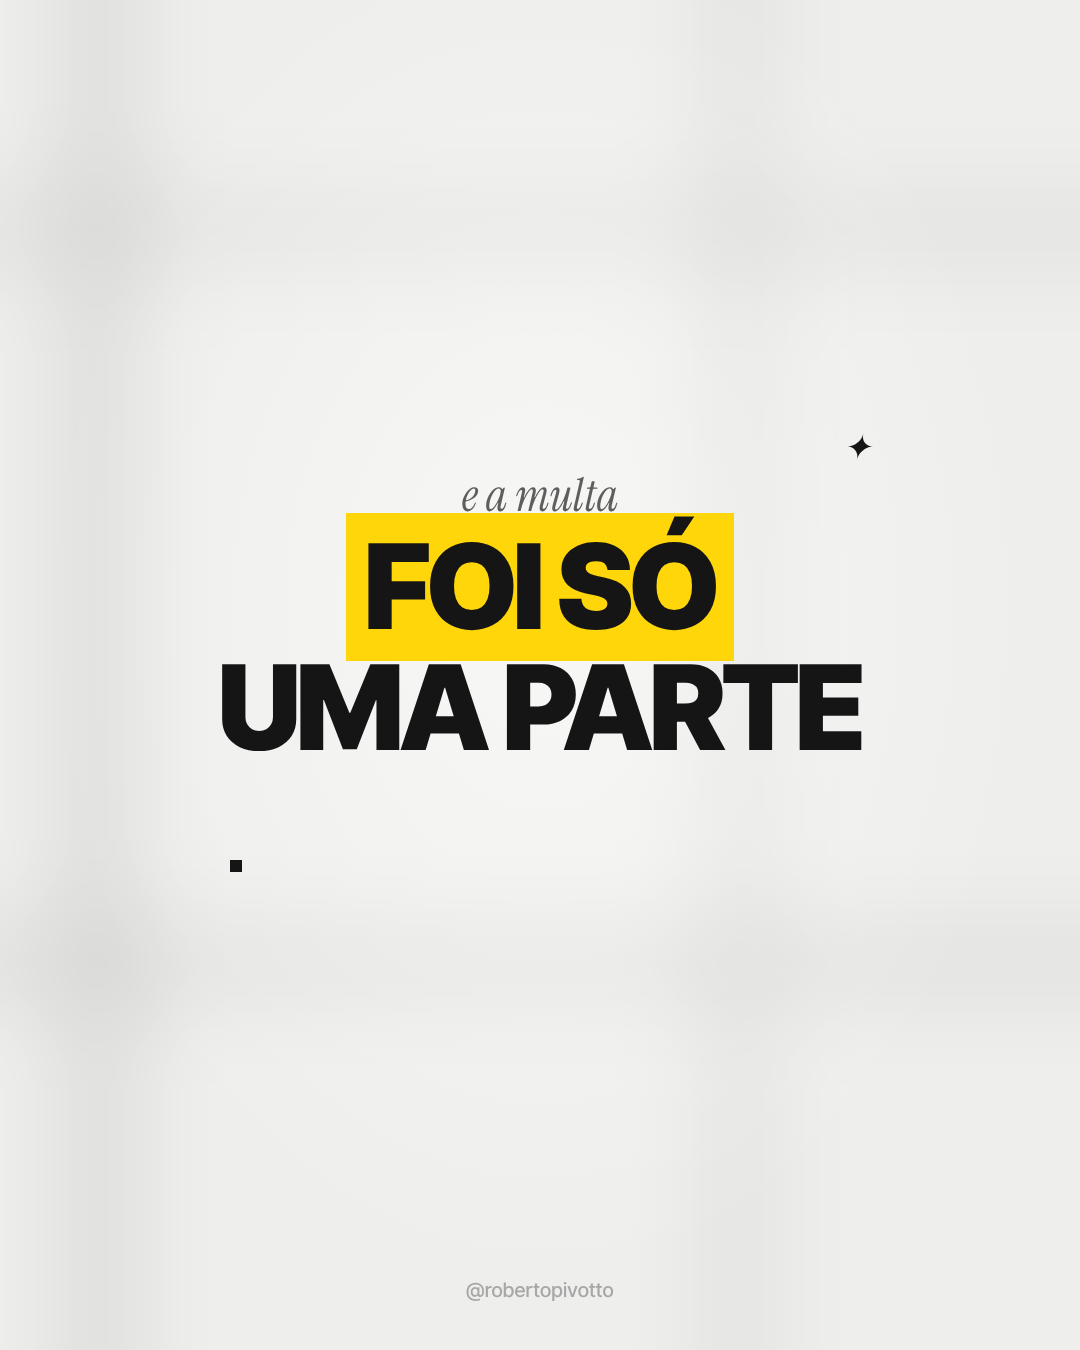
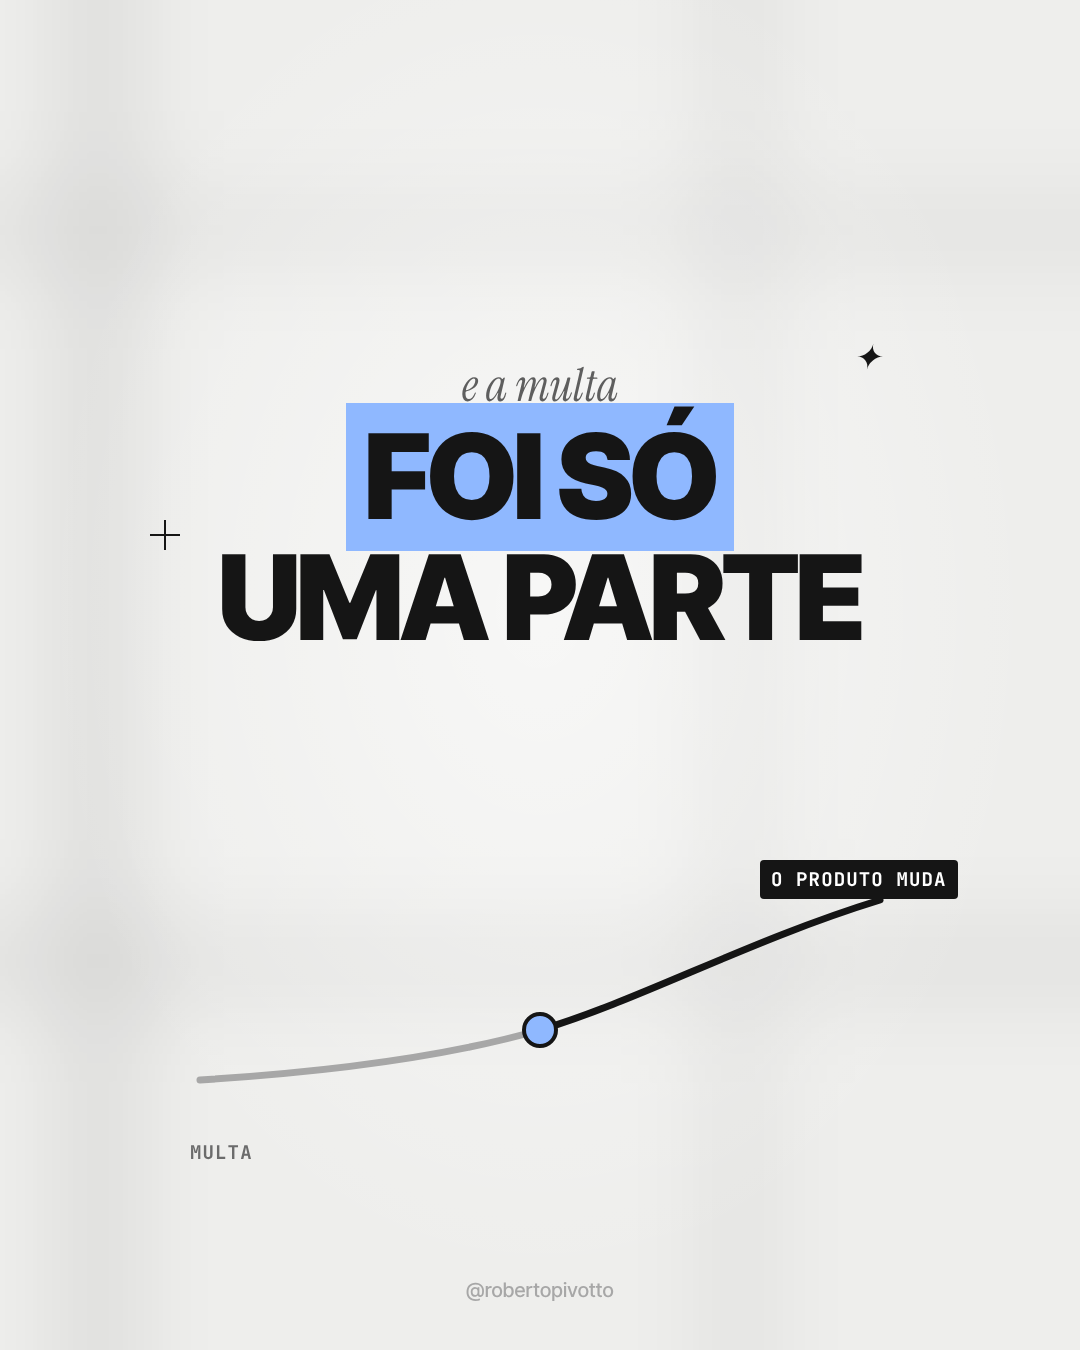
roberto-pivotto: modelo referência em azul, com linhas-guia e figuras
Claude-Session: https://claude.ai/code/session_01Su23FwMFMHv6uGmYoix1fv

diff --git a/roberto-pivotto/posts/modelo-referencia/artes.html b/roberto-pivotto/posts/modelo-referencia/artes.html
@@ -11,7 +11,7 @@
    Componentes: .lead (linha pequena em serifa itálica), .big (título pesado em caixa alta),
    .mk (marca-texto), .card, .chip, .tag (etiqueta com miras), .input (caixa de prompt/comentário),
    .lista, .riscado, .num, .estrela. Troque --acento para mudar a cor do tema. */
-:root{--fundo:#EEEEEC;--branco:#FFFFFF;--tinta:#151515;--cinza:#6B6B6B;--cinza2:#A7A7A7;--linha:#E2E2DF;--acento:#FFD60A;
+:root{--fundo:#EEEEEC;--branco:#FFFFFF;--tinta:#151515;--cinza:#6B6B6B;--cinza2:#A7A7A7;--linha:#E2E2DF;--acento:#8FB8FF;--azul:#2B57A6;
 --serif:'Instrument Serif',Georgia,serif;--sans:'Inter Tight',system-ui,sans-serif;--mono:'JetBrains Mono',monospace}
 *{box-sizing:border-box;margin:0}
 body{background:#888;padding:40px;display:flex;flex-wrap:wrap;gap:40px}
@@ -64,7 +64,7 @@ body{background:#888;padding:40px;display:flex;flex-wrap:wrap;gap:40px}
 .risc.x{color:var(--cinza)}
 .risc.ok span{color:var(--tinta);background:var(--acento);padding:4px 10px;border-radius:4px}
 .input{width:100%;background:var(--branco);border-radius:18px;box-shadow:0 24px 60px rgba(0,0,0,.10);padding:30px 34px;display:flex;align-items:center;gap:22px;text-align:left;font-size:34px;font-weight:500}
-.input .ic{flex:0 0 auto;width:66px;height:66px;border-radius:14px;background:#FFF5C2;display:flex;align-items:center;justify-content:center;font-size:34px}
+.input .ic{flex:0 0 auto;width:66px;height:66px;border-radius:14px;background:#E3EDFF;color:var(--azul);display:flex;align-items:center;justify-content:center;font-size:34px}
 .cur{display:inline-block;width:3px;height:40px;background:var(--tinta);vertical-align:-8px;margin-left:2px}
 .input .env{margin-left:auto;flex:0 0 auto;width:46px;height:46px;border-radius:50%;background:#D9D9D6;color:#fff;display:flex;align-items:center;justify-content:center;font-size:24px}
 .s.v .card{padding:52px 56px} .s.v .card .meta{font-size:28px} .s.v .card h3{font-size:62px} .s.v .card p{font-size:40px} .s.v .chip{font-size:28px;padding:12px 18px}
@@ -73,7 +73,7 @@ body{background:#888;padding:40px;display:flex;flex-wrap:wrap;gap:40px}
 .coment b{width:0;height:0;border-left:34px solid var(--tinta);border-top:22px solid transparent;border-bottom:22px solid transparent}
 .estrela{position:absolute;width:34px;height:34px;z-index:2}
 .estrela::before{content:"✦";position:absolute;inset:0;font-size:34px;line-height:34px;color:var(--tinta)}
-.estrela.a::before{color:var(--acento);text-shadow:0 0 0 #000}
+.estrela.a::before{color:var(--azul)}
 .mira{position:absolute;width:12px;height:12px;background:var(--tinta);z-index:2}
 .logos{display:flex;gap:22px;justify-content:center}
 .logo{width:120px;height:120px;border-radius:22px;background:var(--branco);box-shadow:0 14px 30px rgba(0,0,0,.08);display:flex;align-items:center;justify-content:center;font-weight:900;font-size:34px;letter-spacing:-.02em}
@@ -81,112 +81,178 @@ body{background:#888;padding:40px;display:flex;flex-wrap:wrap;gap:40px}
 .selo{width:520px;height:340px;border-radius:24px;background:var(--branco);box-shadow:0 30px 70px rgba(0,0,0,.12);display:flex;flex-direction:column;align-items:center;justify-content:center;transform:rotate(-3deg)}
 .selo .num{font-size:130px}
 .selo .mono{margin-top:14px}
+/* linhas e figuras das referências */
+svg.ligas{position:absolute;inset:0;width:100%;height:100%;z-index:3;pointer-events:none;overflow:visible}
+.rot{position:absolute;z-index:4;font-family:var(--mono);font-size:19px;font-weight:700;letter-spacing:.06em;text-transform:uppercase;color:var(--tinta)}
+.rot.ch{background:var(--tinta);color:#fff;padding:7px 11px;border-radius:4px}
+.rot.az{background:var(--acento);color:var(--tinta);padding:7px 11px;border-radius:4px}
+.quad{position:absolute;z-index:2;width:40px;height:40px;background:var(--acento)}
+.quad.p{width:14px;height:14px;background:var(--tinta)}
+.cruz{position:absolute;z-index:2;width:30px;height:30px}
+.cruz::before,.cruz::after{content:"";position:absolute;background:var(--tinta)}
+.cruz::before{left:14px;top:0;width:2px;height:30px}.cruz::after{top:14px;left:0;height:2px;width:30px}
+.slider{width:100%;text-align:left}
+.slider .t{display:flex;justify-content:space-between;align-items:baseline;font-size:26px;color:var(--cinza)}
+.slider .t b{font-weight:900;font-size:64px;color:var(--tinta);letter-spacing:-.03em}
+.slider .trilho{position:relative;height:8px;border-radius:4px;background:var(--tinta);margin:30px 0 16px}
+.slider .trilho i{position:absolute;right:-18px;top:-16px;width:40px;height:40px;border-radius:50%;background:var(--acento);border:4px solid var(--tinta)}
+.slider .esc{display:flex;justify-content:space-between;font-family:var(--mono);font-size:18px;color:var(--cinza)}
+.icones{display:flex;gap:26px;justify-content:center;position:relative}
+.icones .ico{width:110px;height:110px;border-radius:22px;background:var(--branco);box-shadow:0 14px 30px rgba(0,0,0,.08);display:flex;align-items:center;justify-content:center}
+.icones .ico svg{width:58px;height:58px}
+.xis{position:absolute;left:-20px;top:-14px;width:calc(100% + 40px);height:calc(100% + 28px);z-index:2}
+.tempo{width:100%;display:flex;align-items:center;gap:0;font-family:var(--mono);font-size:19px;font-weight:700;color:var(--cinza);text-transform:uppercase;letter-spacing:.05em}
+.tempo .seg{flex:1;height:3px;background:var(--tinta);margin:0 14px;position:relative}
+.tempo .seg.tr{background:repeating-linear-gradient(90deg,var(--tinta) 0 10px,transparent 10px 18px)}
+.tempo .pt{width:20px;height:20px;border-radius:50%;background:var(--tinta)} .tempo .pt.az{background:var(--acento);border:3px solid var(--tinta);width:26px;height:26px}
+.tempo .lb{display:flex;flex-direction:column;align-items:center;gap:10px}
+.s.v .rot{font-size:28px} .s.v .rot.ch,.s.v .rot.az{padding:10px 16px}
+.avatar{display:flex;align-items:center;gap:16px;background:var(--branco);border-radius:14px;box-shadow:0 10px 26px rgba(0,0,0,.08);padding:14px 22px 14px 14px;text-align:left}
+.avatar .f{width:56px;height:56px;border-radius:50%;background:var(--tinta);color:#fff;font-weight:800;font-size:22px;display:flex;align-items:center;justify-content:center}
+.avatar b{display:block;font-size:22px} .avatar span{font-size:18px;color:var(--cinza)}
 </style>
 </head>
 <body>
 
-<!-- 1 · capa: lead + título com marca-texto + objeto central com etiqueta -->
-<section class="s" data-out="carrossel-01">
+<!-- 1 · capa: objeto central, linha-guia até a etiqueta com miras, figuras soltas -->
+<section class="s" data-out="carrossel-01" data-ligas="selo@b>tag1@t:ponto">
   <div class="topo"><p class="lead">a multa da LGPD tem teto de</p><p class="big"><span class="mk">R$ 50 milhões</span></p></div>
-  <div class="area" style="top:520px">
-    <div class="selo"><p class="num">153,7<small>mi</small></p><p class="mono">o que o TikTok levou · ANPD</p></div>
-    <span class="tag" style="margin-top:40px">TikTok · ANPD</span>
+  <div class="area" style="top:500px">
+    <div class="selo" id="selo"><p class="num">153,7<small>mi</small></p><p class="mono">o que o TikTok levou</p></div>
+    <span class="tag" id="tag1" style="margin-top:110px">TikTok · ANPD</span>
   </div>
-  <i class="estrela" style="left:830px;top:520px"></i><i class="mira" style="left:200px;top:880px"></i><i class="estrela a" style="left:190px;top:600px"></i>
+  <span class="rot az" id="r2" style="left:790px;top:560px;font-size:24px">3× o teto</span>
+  <i class="estrela" style="left:850px;top:470px"></i><i class="estrela a" style="left:150px;top:860px"></i>
+  <i class="quad" style="left:860px;top:640px"></i><i class="quad p" style="left:190px;top:1080px"></i><i class="cruz" style="left:880px;top:1120px"></i>
   <div class="pe">@robertopivotto</div>
 </section>
 
-<!-- 2 · notícia em cartão, com legenda em itálico -->
-<section class="s" data-out="carrossel-02">
+<!-- 2 · notícia em cartão, anotação pontilhada para o rótulo -->
+<section class="s" data-out="carrossel-02" data-ligas="hl2@r>an2@l:tracejada">
   <div class="topo"><p class="lead">em agosto saiu no</p><p class="big"><span class="mk">Diário Oficial</span></p></div>
-  <div class="area">
-    <div class="card"><p class="meta">notícia · 25 ago 2026</p><h3><span class="mk">ANPD multa a dona do TikTok em R$ 153,7 milhões</span></h3><p>É a maior sanção da história da autoridade.</p></div>
+  <div class="area" style="right:250px">
+    <div class="card"><p class="meta">notícia · 25 ago 2026</p><h3><span class="mk" id="hl2">ANPD multa a dona do TikTok em R$ 153,7 milhões</span></h3><p>Dados de crianças e adolescentes tratados sem base legal.</p></div>
     <p class="mono">fonte: Tecnoblog · diário oficial da união</p>
-    <p class="legenda">"dados de crianças e adolescentes tratados sem base legal"</p>
   </div>
+  <span class="rot ch" id="an2" style="left:870px;top:560px;width:150px;line-height:1.35">maior multa da ANPD</span>
+  <div class="area" style="top:1010px"><div class="tempo"><div class="lb"><span class="pt"></span>2021</div><div class="seg tr"></div><div class="lb"><span class="pt"></span>fiscalização</div><div class="seg"></div><div class="lb"><span class="pt az"></span>ago/2026</div></div></div>
+  <i class="estrela" style="left:120px;top:420px"></i><i class="cruz" style="left:930px;top:880px"></i>
   <div class="pe">@robertopivotto</div>
 </section>
 
-<!-- 3 · número grande + chips -->
+<!-- 3 · número + régua no máximo -->
 <section class="s" data-out="carrossel-03">
   <div class="topo"><p class="lead">o teto da LGPD vale</p><p class="big"><span class="mk">por infração</span></p></div>
-  <div class="area" style="top:520px">
+  <div class="area" style="top:480px">
     <div class="card c"><p class="num">R$ 50<small>mi</small></p><p>para cada infração</p></div>
-    <div class="chips"><span class="chip">até 2% do faturamento</span><span class="chip">no Brasil</span><span class="chip a">por infração</span></div>
+    <div class="card slider"><div class="t"><span>multa por infração</span><b>máx.</b></div><div class="trilho"><i></i></div><div class="esc"><span>R$ 0</span><span>2% do faturamento</span><span>R$ 50 mi</span></div></div>
     <p class="mono">LGPD · art. 52, II</p>
   </div>
+  <i class="quad" style="left:900px;top:470px"></i><i class="estrela a" style="left:120px;top:1100px"></i>
   <div class="pe">@robertopivotto</div>
 </section>
 
-<!-- 4 · cartão com barra preta e lista numerada -->
-<section class="s" data-out="carrossel-04">
+<!-- 4 · lista no cartão, colchete e linha até o total -->
+<section class="s" data-out="carrossel-04" data-ligas="it1@r>tot@l;it2@r>tot@l;it3@r>tot@l">
   <div class="topo"><p class="lead">a mesma prática virou</p><p class="big"><span class="mk">5 infrações</span></p></div>
-  <div class="area">
+  <div class="area" style="right:330px;left:90px">
     <div class="card lista"><div class="barra">decisão da ANPD</div>
-      <div class="it"><span class="q">01</span>sem base legal</div>
-      <div class="it"><span class="q">02</span>sem prevenção</div>
-      <div class="it"><span class="q">03</span>sem prova de conformidade</div>
-      <div class="it off"><span class="q">+2</span><div>outras duas<small>não detalhadas na matéria</small></div></div>
+      <div class="it" id="it1"><span class="q">01</span>sem base legal</div>
+      <div class="it" id="it2"><span class="q">02</span>sem prevenção</div>
+      <div class="it" id="it3"><span class="q">03</span>sem prova de conformidade</div>
+      <div class="it off"><span class="q">+2</span><div>outras duas<small>não detalhadas</small></div></div>
     </div>
-    <p class="legenda">cada uma com o próprio teto de R$ 50 milhões</p>
   </div>
+  <span class="tag" id="tot" style="position:absolute;left:830px;top:690px;font-size:34px">× 5</span>
+  <p class="legenda" style="position:absolute;left:0;right:0;top:1150px">cada uma com o próprio teto de R$ 50 milhões</p>
+  <i class="estrela" style="left:930px;top:520px"></i><i class="quad p" style="left:960px;top:980px"></i>
   <div class="pe">@robertopivotto</div>
 </section>
 
-<!-- 5 · respiro: só o título -->
+<!-- 5 · respiro com a curva que pivota -->
 <section class="s" data-out="carrossel-05">
-  <div class="topo" style="top:470px"><p class="lead">e a multa</p><p class="big g"><span class="mk">foi só</span></p><p class="big g">uma parte</p></div>
-  <i class="estrela" style="left:840px;top:430px"></i><i class="mira" style="left:230px;top:860px"></i>
+  <div class="topo" style="top:360px"><p class="lead">e a multa</p><p class="big g"><span class="mk">foi só</span></p><p class="big g">uma parte</p></div>
+  <svg style="position:absolute;left:190px;top:880px;width:700px;height:240px;z-index:2" viewBox="0 0 700 240"><path d="M10 200 C 170 190, 280 170, 350 150" stroke="#A7A7A7" stroke-width="7" fill="none" stroke-linecap="round"/><path d="M350 150 C 450 120, 560 60, 690 20" stroke="#151515" stroke-width="7" fill="none" stroke-linecap="round"/><circle cx="350" cy="150" r="16" fill="#8FB8FF" stroke="#151515" stroke-width="4"/></svg>
+  <span class="rot" style="left:190px;top:1140px;color:#6B6B6B">multa</span><span class="rot ch" style="left:760px;top:860px">o produto muda</span>
+  <i class="estrela" style="left:850px;top:340px"></i><i class="cruz" style="left:150px;top:520px"></i>
   <div class="pe">@robertopivotto</div>
 </section>
 
-<!-- 6 · itens riscados e mantidos -->
+<!-- 6 · ícones riscados + itens riscados e mantidos -->
 <section class="s" data-out="carrossel-06">
   <div class="topo"><p class="lead">a ANPD também mandou</p><p class="big"><span class="mk">mudar o produto</span></p></div>
-  <div class="area" style="gap:20px">
-    <div class="risc x">dados coletados sem base legal<span>apagar</span></div>
+  <div class="area" style="gap:18px;top:440px">
+    <div class="icones"><span class="ico"><svg viewBox="0 0 24 24" fill="none" stroke="#151515" stroke-width="2"><ellipse cx="12" cy="6" rx="7" ry="3"/><path d="M5 6v12c0 1.7 3.1 3 7 3s7-1.3 7-3V6M5 12c0 1.7 3.1 3 7 3s7-1.3 7-3"/></svg></span><span class="ico"><svg viewBox="0 0 24 24" fill="none" stroke="#151515" stroke-width="2"><rect x="3" y="5" width="18" height="14" rx="2"/><path d="M7 15l2.5-6 2.5 6M7.8 13h3.4M15 9v6h1.2a2.8 3 0 000-6z"/></svg></span><svg class="xis" viewBox="0 0 100 100" preserveAspectRatio="none"><path d="M4 8 L96 92 M96 8 L4 92" stroke="#2B57A6" stroke-width="3.5" stroke-linecap="round"/></svg></div>
+    <div class="risc x" style="margin-top:20px">dados coletados sem base legal<span>apagar</span></div>
     <div class="risc x">anúncios para quem usa sem cadastro<span>suspender</span></div>
     <div class="risc ok">menores de 16 anos<span>privacidade restrita</span></div>
     <div class="risc ok">supervisão dos pais<span>reforçada</span></div>
-    <p class="mono" style="margin-top:14px">fonte: Tecnoblog · 25/08/2026</p>
   </div>
+  <i class="estrela a" style="left:880px;top:470px"></i><i class="quad p" style="left:170px;top:520px"></i>
   <div class="pe">@robertopivotto</div>
 </section>
 
-<!-- 7 · fecho: pergunta + caixa de comentário -->
-<section class="s" data-out="carrossel-07">
-  <div class="topo" style="top:300px"><p class="lead">na sua empresa,</p><p class="big p">qual prática com dados</p><p class="big p"><span class="mk">toca mais de uma regra?</span></p></div>
-  <div class="area" style="top:760px;left:150px;right:150px">
+<!-- 7 · fecho: pergunta, caixa de comentário e cartão do perfil -->
+<section class="s" data-out="carrossel-07" data-ligas="coment@b>av@t:ponto">
+  <div class="topo" style="top:250px"><p class="lead">na sua empresa,</p><p class="big p">qual prática com dados</p><p class="big p"><span class="mk">toca mais de uma regra?</span></p></div>
+  <div class="area" style="top:690px;left:150px;right:150px">
     <p class="lead" style="font-size:40px">comenta</p>
-    <div class="coment"><span>a sua prática</span><b></b></div>
-    <p class="mono" style="margin-top:20px">desde fevereiro, a ANPD é autarquia e fiscaliza o ECA Digital</p>
+    <div class="coment" id="coment"><span>a sua prática</span><b></b></div>
+    <div class="avatar" id="av" style="margin-top:90px"><span class="f">RP</span><div><b>robertopivotto</b><span>advogado · negócios e tecnologia</span></div></div>
   </div>
-  <i class="estrela a" style="left:900px;top:1120px"></i>
+  <i class="estrela a" style="left:900px;top:1120px"></i><i class="estrela" style="left:140px;top:640px"></i><i class="cruz" style="left:150px;top:1130px"></i>
   <div class="pe">@robertopivotto</div>
 </section>
 
-<!-- Capa do Reels de quarta -->
-<section class="s v" data-out="reels-quarta-capa">
+<!-- Capa do Reels de quarta: cartão com linhas para os rótulos riscados -->
+<section class="s v" data-out="reels-quarta-capa" data-ligas="c4@l>st@r:tracejada;c4@r>sf@l:tracejada">
   <div class="topo"><p class="lead">a IA erra, e</p><p class="big"><span class="mk">quem paga</span></p><p class="lead">é quem assina</p></div>
-  <div class="area" style="top:880px">
-    <div class="card"><p class="meta">TJMG · 13 ago 2026</p><h3>Advogado cita decisões do STJ e do STF <span class="mk">que não existem</span></h3><p>Multa de 2%, ofício à OAB e cópia ao Ministério Público.</p></div>
+  <div class="area" style="top:860px;left:210px;right:210px">
+    <div class="card" id="c4"><p class="meta">TJMG · 13 ago 2026</p><h3>Decisões citadas <span class="mk">que não existem</span></h3><p>Multa de 2%, ofício à OAB e cópia ao MP.</p></div>
     <div class="chips"><span class="chip">jurisprudência inventada</span><span class="chip a">quem assina responde</span></div>
   </div>
-  <i class="estrela" style="left:860px;top:700px"></i>
+  <span class="rot ch" id="st" style="left:40px;top:1330px">STJ ✕</span><span class="rot ch" id="sf" style="left:920px;top:1330px">STF ✕</span>
+  <i class="estrela" style="left:880px;top:700px"></i><i class="quad" style="left:150px;top:760px"></i><i class="cruz" style="left:880px;top:1520px"></i>
   <div class="pe">@robertopivotto</div>
 </section>
 
-<!-- Capa do Reels de sexta -->
-<section class="s v" data-out="reels-sexta-capa">
+<!-- Capa do Reels de sexta: caixa de chat, seta tracejada até o fornecedor -->
+<section class="s v" data-out="reels-sexta-capa" data-ligas="inp@b>forn@t:tracejada">
   <div class="topo"><p class="lead">seu time já cola</p><p class="big"><span class="mk">dado de cliente</span></p><p class="lead">no ChatGPT</p></div>
-  <div class="area" style="top:900px">
-    <div class="input"><span class="ic">✦</span><span>resume esse contrato do cliente<span class="cur"></span></span><span class="env">↑</span></div>
+  <div class="area" style="top:880px">
+    <div class="input" id="inp"><span class="ic">✦</span><span>resume esse contrato do cliente<span class="cur"></span></span><span class="env">↑</span></div>
+    <div class="icones" id="forn" style="margin-top:130px"><span class="ico"><svg viewBox="0 0 24 24" fill="none" stroke="#151515" stroke-width="2"><rect x="5" y="10" width="14" height="10" rx="2"/><path d="M8 10V7a4 4 0 018 0v3"/></svg></span><span class="ico"><svg viewBox="0 0 24 24" fill="none" stroke="#151515" stroke-width="2"><circle cx="12" cy="7" r="3.5"/><path d="M5 21c.6-4 3.3-6.5 7-6.5s6.4 2.5 7 6.5"/></svg></span></div>
     <div class="chips"><span class="chip">conta pessoal</span><span class="chip">sem registro</span><span class="chip a">LGPD</span></div>
   </div>
-  <i class="estrela a" style="left:170px;top:760px"></i><i class="mira" style="left:880px;top:1230px"></i>
+  <span class="rot az" style="left:600px;top:1170px">sai da empresa</span>
+  <i class="estrela a" style="left:160px;top:760px"></i><i class="quad p" style="left:900px;top:1500px"></i><i class="cruz" style="left:150px;top:1440px"></i>
   <div class="pe">@robertopivotto</div>
 </section>
 
-<script>document.fonts.ready.then(()=>{document.body.dataset.pronto='1'});</script>
+<script>
+// linhas-guia: data-ligas="idA@âncora>idB@âncora[:ponto|:tracejada];..." (âncoras t b l r c)
+function ponto(el,a,base){const r=el.getBoundingClientRect();const x={l:r.left,r:r.right,c:(r.left+r.right)/2,t:(r.left+r.right)/2,b:(r.left+r.right)/2}[a];const y={t:r.top,b:r.bottom,c:(r.top+r.bottom)/2,l:(r.top+r.bottom)/2,r:(r.top+r.bottom)/2}[a];return [x-base.left,y-base.top]}
+document.fonts.ready.then(()=>{
+  document.querySelectorAll('section[data-ligas]').forEach(sec=>{
+    const base=sec.getBoundingClientRect(); const NS='http://www.w3.org/2000/svg';
+    const svg=document.createElementNS(NS,'svg'); svg.classList.add('ligas'); svg.setAttribute('viewBox',`0 0 ${base.width} ${base.height}`);
+    sec.dataset.ligas.split(';').forEach(l=>{
+      const [par,tipo]=l.split(':'); const [a,b]=par.split('>'); const [ia,aa]=a.split('@'); const [ib,ab]=b.split('@');
+      const A=ponto(sec.querySelector('#'+ia),aa,base), B=ponto(sec.querySelector('#'+ib),ab,base);
+      const pad=v=>({t:[0,-6],b:[0,6],l:[-6,0],r:[6,0],c:[0,0]})[v];
+      const a0=[A[0]+pad(aa)[0],A[1]+pad(aa)[1]], b0=[B[0]+pad(ab)[0],B[1]+pad(ab)[1]];
+      const p=document.createElementNS(NS,'path');
+      const mx=(a0[0]+b0[0])/2;
+      const d=(aa==='b'||aa==='t')&&(ab==='t'||ab==='b')?`M${a0} L${b0}`:`M${a0} C${mx},${a0[1]} ${mx},${b0[1]} ${b0}`;
+      p.setAttribute('d',d); p.setAttribute('fill','none'); p.setAttribute('stroke','#151515'); p.setAttribute('stroke-width','3');
+      if(tipo==='tracejada') p.setAttribute('stroke-dasharray','10 9');
+      svg.appendChild(p);
+      [a0,b0].forEach((q,k)=>{const c=document.createElementNS(NS,'circle');c.setAttribute('cx',q[0]);c.setAttribute('cy',q[1]);c.setAttribute('r',k===0&&tipo==='ponto'?9:6);c.setAttribute('fill',k===0?'#2B57A6':'#151515');svg.appendChild(c)});
+    });
+    sec.appendChild(svg);
+  });
+  document.body.dataset.pronto='1';
+});
+</script>
 </body>
 </html>

diff --git a/roberto-pivotto/design-system/08-referencias.md b/roberto-pivotto/design-system/08-referencias.md
@@ -48,6 +48,8 @@ https://www.instagram.com/reel/Desu6f3t5_q/
 
 ## Modelo no visual das referências
 
-`posts/modelo-referencia/artes.html` reproduz o visual do @amann.dev, aplicado ao carrossel de 26/10 e às capas dos Reels. É um modelo à parte do caderno de obra: fundo claro com sombra de janela, linha pequena em Instrument Serif itálico, título em Inter Tight 900 caixa alta com marca-texto, cartões brancos com sombra, chips pretos em JetBrains Mono, etiqueta com miras e estrelinhas. A cor do marca-texto fica em `--acento` (amarelo da referência); trocar para `#8FB0E6` volta para a paleta do Roberto.
+`posts/modelo-referencia/artes.html` reproduz o visual do @amann.dev, aplicado ao carrossel de 26/10 e às capas dos Reels. É um modelo à parte do caderno de obra: fundo claro com sombra de janela, linha pequena em Instrument Serif itálico, título em Inter Tight 900 caixa alta com marca-texto, cartões brancos com sombra, chips pretos em JetBrains Mono, etiqueta com miras e estrelinhas. A cor do marca-texto fica em `--acento`, hoje azul (`#8FB8FF`), com o azul Caneta (`#2B57A6`) nos pontos das linhas e nas estrelas.
+
+Linhas e figuras das referências: linhas-guia com ponto entre objeto e rótulo (`data-ligas` na seção), rótulos pretos e azuis (`.rot`), régua no máximo (`.slider`), linha do tempo (`.tempo`), ícones riscados (`.icones` + `.xis`), curva que pivota, quadradinhos (`.quad`), cruzes (`.cruz`) e cartão de perfil (`.avatar`).
 
 Componentes: `.lead`, `.big`, `.mk`, `.card` (com `.meta`, `.barra`), `.chip`, `.tag`, `.num`, `.lista`, `.risc`, `.input`, `.coment`, `.estrela`, `.mira`. Para gerar: `node posts/render.mjs modelo-referencia`.
